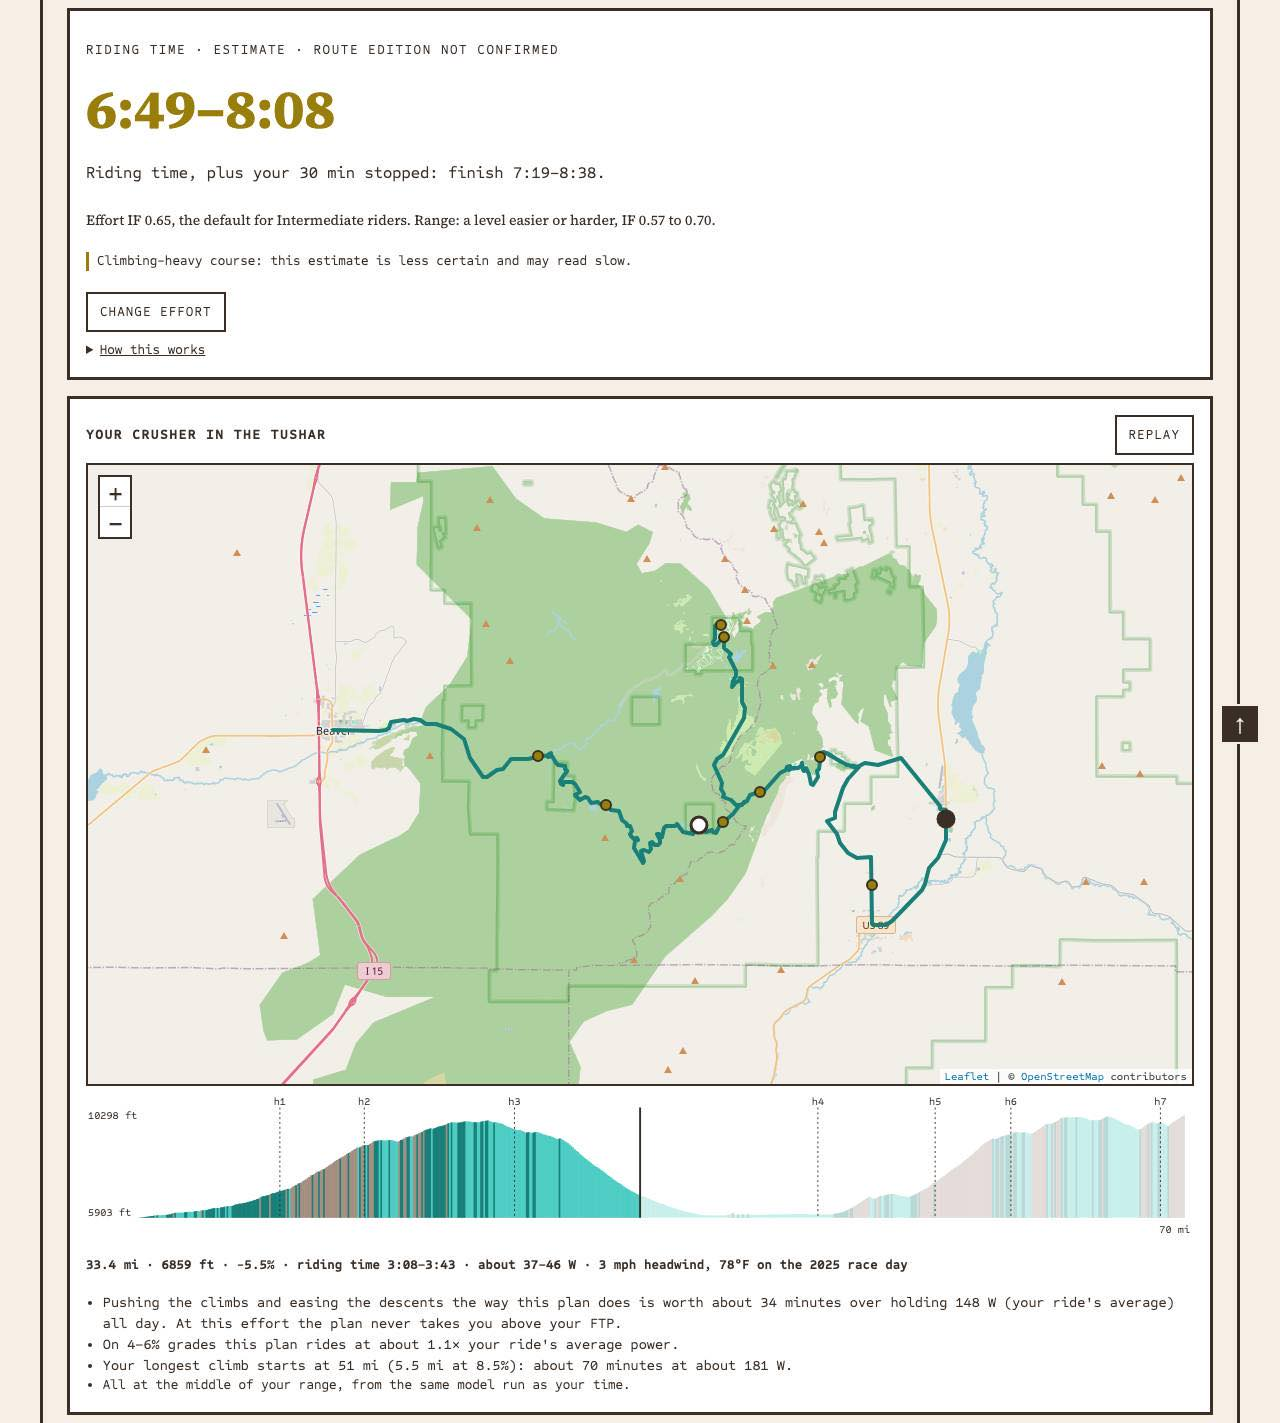
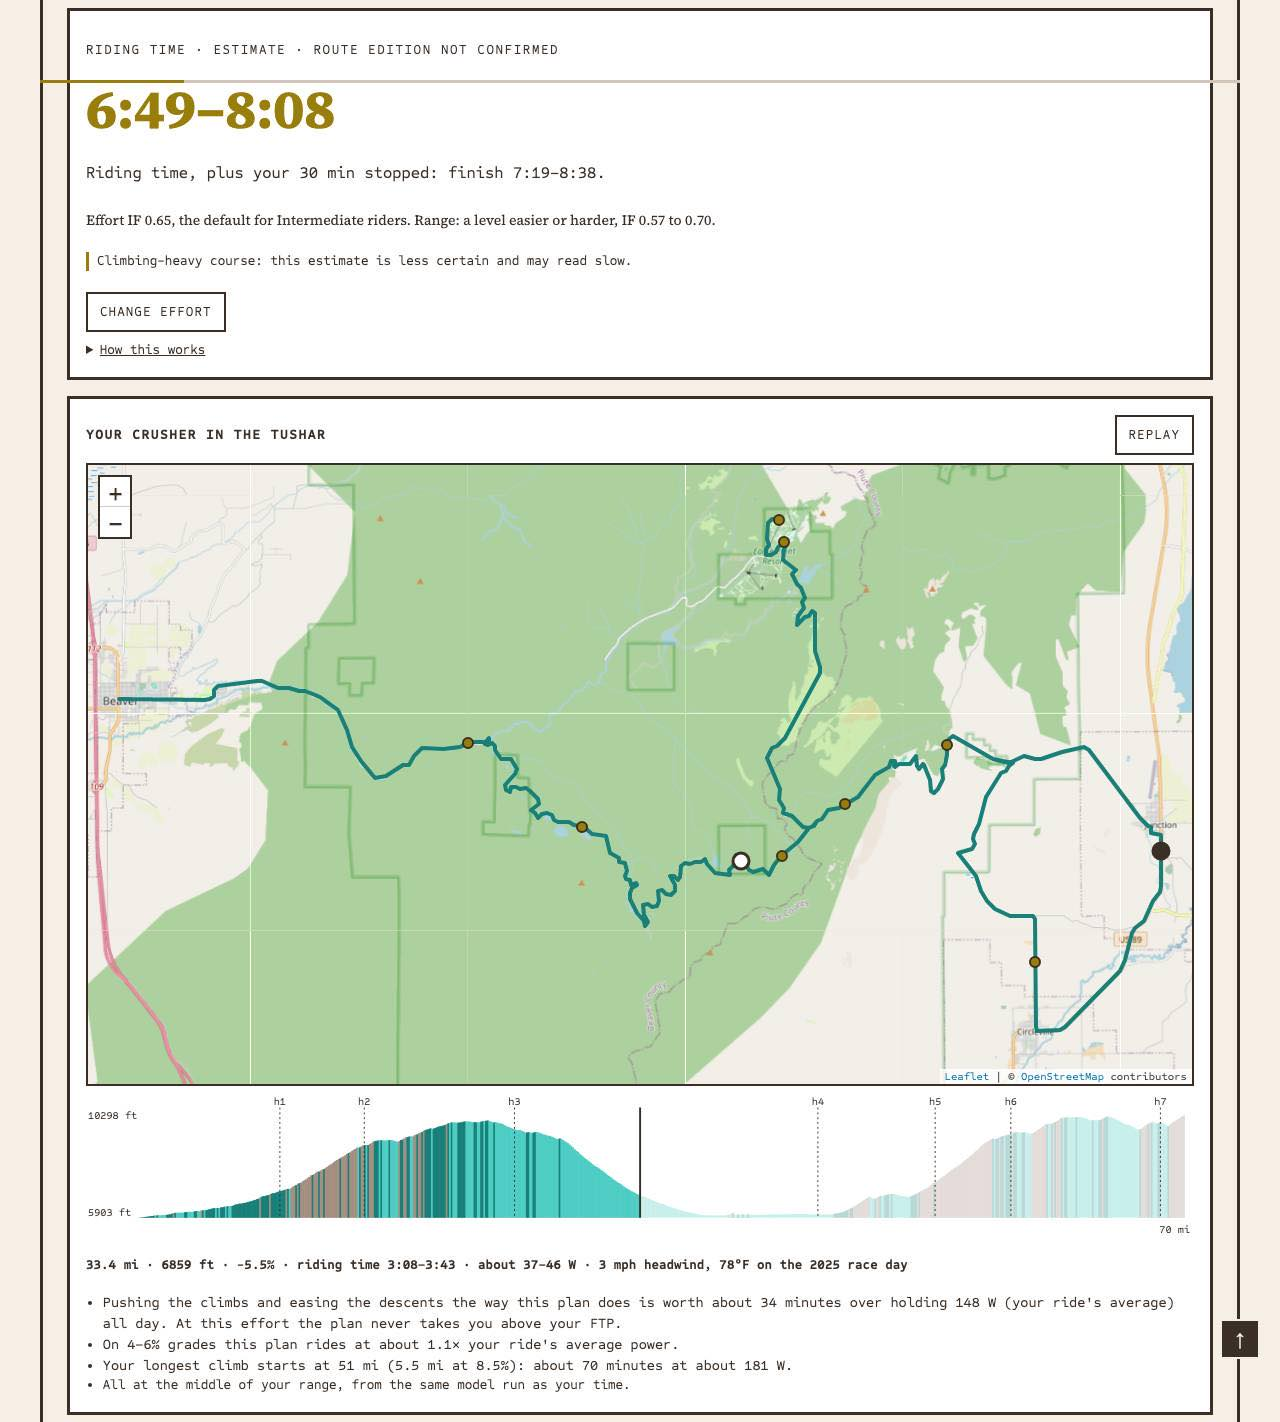
planner map: fit the route to the map at every width
The desktop map showed the route at about half size. Cause, measured on
the 11 planner pages: the fit ran at the container's final size, but
whole zoom levels (zoomSnap 1) rounded e.g. Unbound's 9.9 down to 9,
which halves the route on screen; phones lost up to a level too. Also,
Leaflet's CSS could arrive after the map was laid out.

- Fractional zoom (zoomSnap 0) and a margin of 5% of the map's shorter
  side: the route now fills 98.5-99.6% of the map on all 11 pages at
  1280 and 390 px.
- Refit on resize and orientation change (ResizeObserver), until the
  visitor zooms or pans; after that their view is kept. Replay and
  scrubbing only move the pins.
- The map is drawn only once Leaflet's script and stylesheet have both
  loaded.
- Tile seams at fractional zoom: tiles blend with each other inside an
  isolated pane (Leaflet issue 3575).
- Screenshots retaken as plain viewport captures.

diff --git a/wordpress/planner/gg-planner.js b/wordpress/planner/gg-planner.js
@@ -322,13 +322,21 @@
     leafState = "loading";
     var M = cfg.map;
     var done = function (ok) { leafState = ok ? "ok" : "fail"; var w = leafWait; leafWait = []; w.forEach(function (f) { f(ok); }); };
-    document.head.appendChild(el("link", { rel: "stylesheet", href: M.css, integrity: M.css_sri, crossorigin: "anonymous" }));
+    // Draw only once both the script and its stylesheet are in: a map laid
+    // out before Leaflet's CSS arrives places its panes and tiles wrongly.
+    var left = 2, ok = true;
+    var one = function (good) { ok = ok && good; if (--left === 0) done(ok && !!(window.L && window.L.map)); };
+    var css = el("link", { rel: "stylesheet", href: M.css, integrity: M.css_sri, crossorigin: "anonymous" });
+    css.addEventListener("load", function () { one(true); }); css.addEventListener("error", function () { one(false); });
     var js = el("script", { src: M.js, integrity: M.js_sri, crossorigin: "anonymous" });
-    js.addEventListener("load", function () { done(!!(window.L && window.L.map)); });
-    js.addEventListener("error", function () { done(false); });
-    document.head.appendChild(js);
+    js.addEventListener("load", function () { one(true); }); js.addEventListener("error", function () { one(false); });
+    document.head.appendChild(css); document.head.appendChild(js);
   }
-  function dropMap() { if (leaf) { try { leaf.remove(); } catch (e) {} leaf = null; } }
+  var leafRO = null;
+  function dropMap() {
+    if (leafRO) { leafRO.disconnect(); leafRO = null; }
+    if (leaf) { try { leaf.remove(); } catch (e) {} leaf = null; }
+  }
 
   function mapCard(m) {
     var R = m.ride;
@@ -360,9 +368,10 @@
         if (!ok) { noMap("the map library did not load"); return; }
         var L = window.L, M = cfg.map;
         dropMap();
-        // Whole zoom levels keep tiles seamless. On touch screens one finger
-        // scrolls the page, not the map; the zoom buttons still work.
-        var map = L.map(box, { scrollWheelZoom: false, dragging: !L.Browser.mobile, tap: false });
+        // Fractional zoom so the route fills the map (whole levels can halve it).
+        // On touch screens one finger scrolls the page, not the map; the zoom
+        // buttons still work.
+        var map = L.map(box, { scrollWheelZoom: false, dragging: !L.Browser.mobile, tap: false, zoomSnap: 0, zoomDelta: 1 });
         map.attributionControl.setPrefix(M.prefix);
         leaf = map;
         var tiles = L.tileLayer(M.tiles, { attribution: M.attribution, maxZoom: M.max_zoom }), gotTile = false;
@@ -371,7 +380,26 @@
         tiles.addTo(map);
         var line = geo.la.map(function (la, i) { return [la, geo.lo[i]]; });
         var route = L.polyline(line, { className: "gg-planner-route", weight: 4, opacity: 1, interactive: false }).addTo(map);
-        map.fitBounds(route.getBounds(), { padding: [24, 24] });
+        // Fit the route with a margin of 5% of the map's shorter side, now and
+        // whenever the map changes size (resize, orientation), until the
+        // visitor zooms or pans; after that their view is kept. Replay and
+        // scrubbing only move the pins.
+        var fitting = false, userView = false, bounds = route.getBounds();
+        function fit() {
+          var sz = map.getSize(); if (!sz.x || !sz.y) return;
+          var pad = Math.round(0.05 * Math.min(sz.x, sz.y));
+          fitting = true; map.fitBounds(bounds, { padding: [pad, pad], animate: false }); fitting = false;
+        }
+        map.on("zoomstart movestart", function () { if (!fitting) userView = true; });
+        fit();
+        if (window.ResizeObserver) {
+          leafRO = new ResizeObserver(function () {
+            if (!leaf) return;
+            fitting = true; map.invalidateSize({ animate: false }); fitting = false;
+            if (!userView) fit();
+          });
+          leafRO.observe(box);
+        }
         m.hours.forEach(function (p) { L.circleMarker([p.la, p.lo], { radius: 5, className: "gg-planner-dot", fillOpacity: 1, opacity: 1, interactive: false }).addTo(map); });
         if (!R) return;
         pins = {

diff --git a/tests/test_race_planner.py b/tests/test_race_planner.py
@@ -514,3 +514,19 @@ def test_base_map_is_the_sites_leaflet_and_osm_tiles_with_no_stand_in():
     assert js.index('cls: "gg-planner-basemap"') < js.index('"class": "gg-planner-profile"') < js.index('cls: "gg-planner-readout"')
     assert 'el("summary", { text: "How this works" })' in js
 
+
+def test_map_fits_the_route_and_keeps_the_visitors_zoom():
+    """Fractional zoom with a 5% margin, refit on resize until the visitor moves
+    the map, drawn only once Leaflet's CSS is in. Replay and scrubbing only
+    move the pins."""
+    js = (PLANNER_JS / "gg-planner.js").read_text()
+    assert "zoomSnap: 0" in js, "whole zoom levels can halve the route on screen"
+    assert "0.05 * Math.min(sz.x, sz.y)" in js
+    assert "new ResizeObserver(" in js and "if (!userView) fit();" in js
+    assert 'map.on("zoomstart movestart", function () { if (!fitting) userView = true; });' in js
+    assert 'css.addEventListener("load"' in js
+    start = js.index("function setMoment(")
+    body = js[start:js.index("function scrubKm(", start)]
+    for call in ("setView", "fitBounds", "setZoom", "panTo", "flyTo"):
+        assert call not in body
+

diff --git a/wordpress/race_planner.py b/wordpress/race_planner.py
@@ -456,6 +456,10 @@ def get_race_planner_css() -> str:
 {p}-basemap .leaflet-bar {{ border: 2px solid var(--gg-color-dark-brown); }}
 {p}-basemap .leaflet-bar a {{ color: var(--gg-color-dark-brown); }}
 {p}-basemap .leaflet-control-attribution {{ font-size: 11px; }}
+/* Fractional zoom leaves hairline gaps between tiles in Chromium; blending the tiles with each other
+   inside an isolated pane (not with the background) closes them (Leaflet issue 3575). */
+{p}-basemap .leaflet-tile-pane {{ isolation: isolate; }}
+{p}-basemap img.leaflet-tile {{ mix-blend-mode: plus-lighter; }}
 {p}-profile {{ width: 100%; height: auto; display: block; }}
 {p}-route {{ fill: none; stroke: var(--gg-color-teal); stroke-width: 4; stroke-linejoin: round; }}
 {p}-prof {{ fill: var(--gg-color-tan); stroke: var(--gg-color-dark-brown); stroke-width: 1; }}
